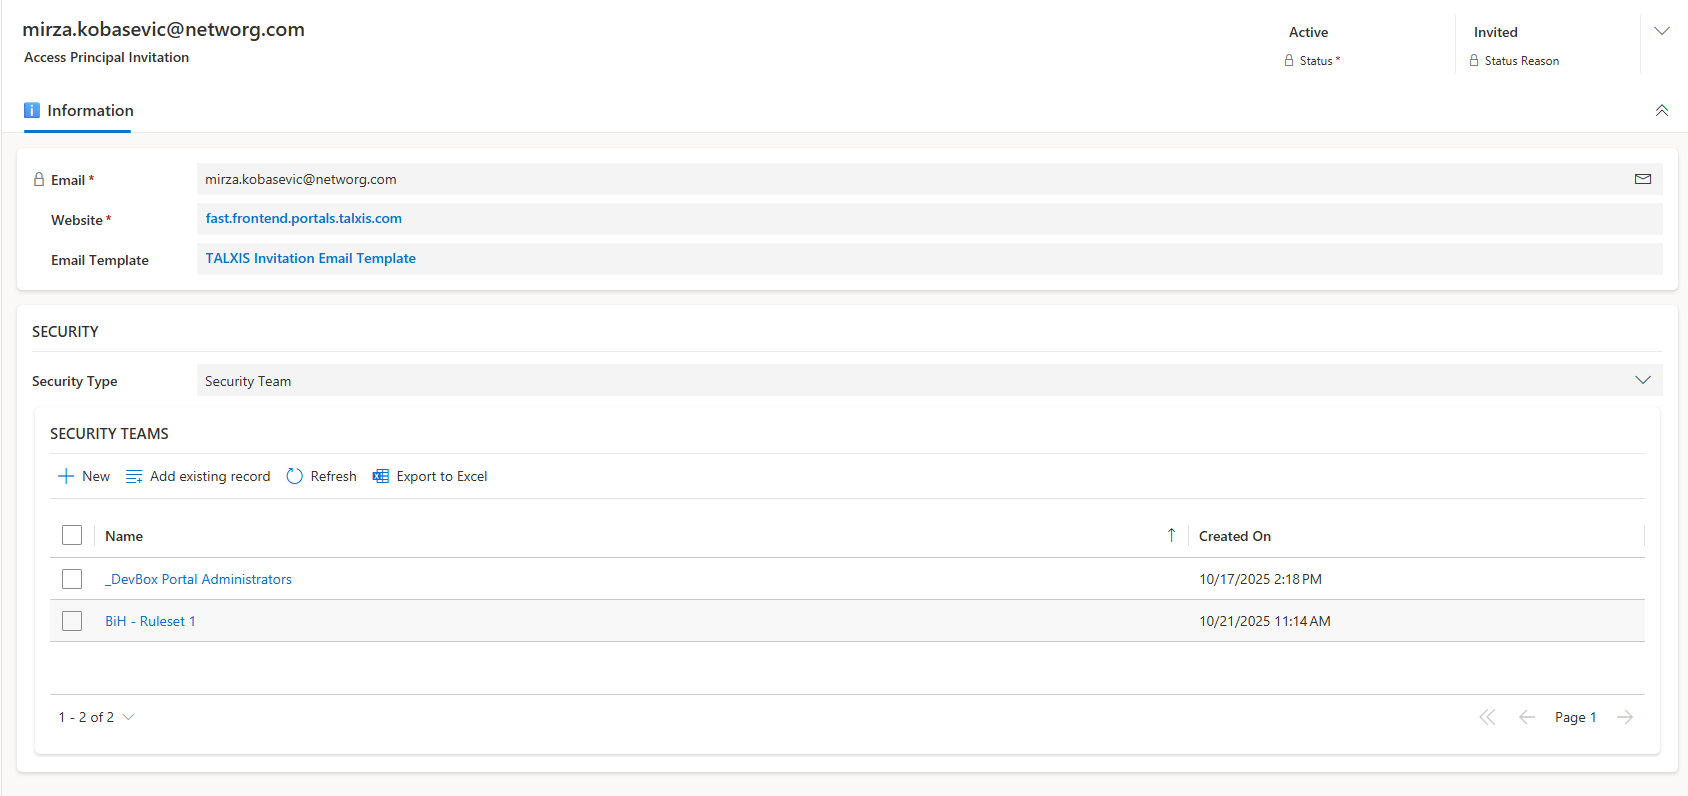
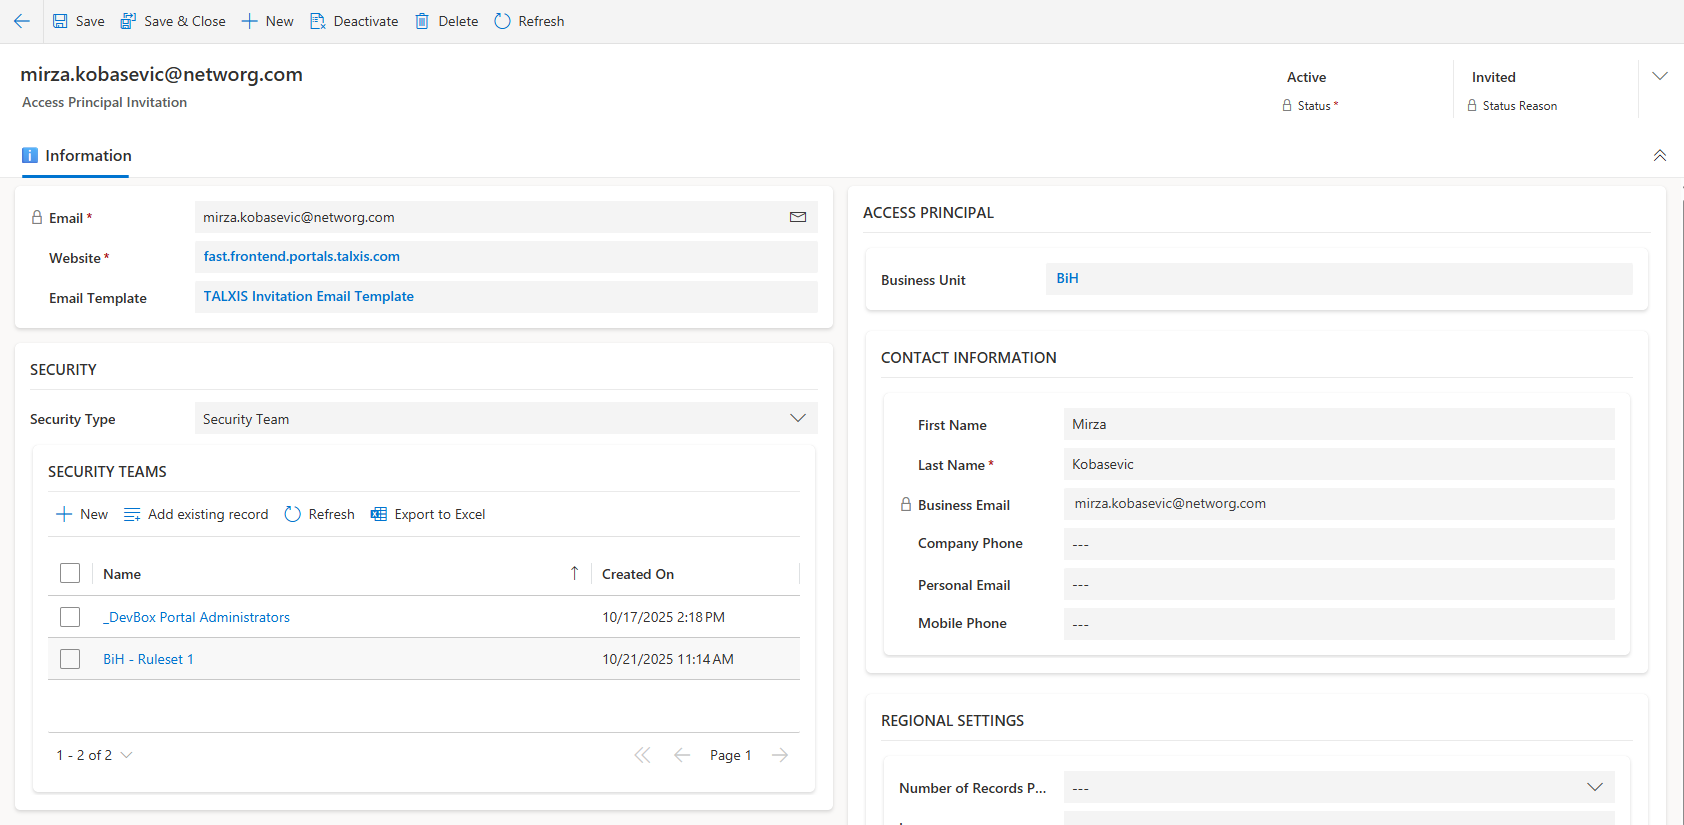
Portal invitation documentation update

diff --git a/src/en/developer-guide/applications/modules/bootstrap/portal-invitation.md b/src/en/developer-guide/applications/modules/bootstrap/portal-invitation.md
@@ -68,7 +68,9 @@ Temporary entity for holding information about Business Unit - Rule Set combinat
 
 ![Website Form](/.attachments/applications/modules/bootstrap/portal-invitation/website.png)
 
-3. On Access Principal Invitation record save, new Access Principal is created for provided email (if it is not already present in the system). Access Principal is populated for in invitation record and the user is given the possibility to choose the type of security.
+3. On Access Principal Invitation record save, new Access Principal and related Contact are created for provided email (if it is not already present in the system). Access Principal is populated for invitation record and the user is given the possibility to edit contact/access principal settings information and choose the type of security.
+
+![Access Principal Settings](/.attachments/applications/modules/bootstrap/portal-invitation/access-principal-settings.png)
 
 4. When the Security Team type is selected, the admin can add Access principal to specific Security Teams directly on the invitation record.
 
@@ -76,7 +78,7 @@ Temporary entity for holding information about Business Unit - Rule Set combinat
 
 5. If Business Unit & Rule Set type is selected, the admin can create multiple Business Unit - Rule Set combinations for access principal. Those combinations are created as new Security Teams after invitation is sent to the user.
 
-![Business Unit & Rule Set Type](/.attachments/applications/modules/bootstrap/portal-invitation/business-unit-type.png)
+![Business Unit & Rule Set Type](/.attachments/applications/modules/bootstrap/portal-invitation/access-principal-settings.png)
 
 6. After invitation configuration is finished, admin can send invitation to the user with "Send invitation" Form ribbon button that is visible only for Draft invitations.
 
